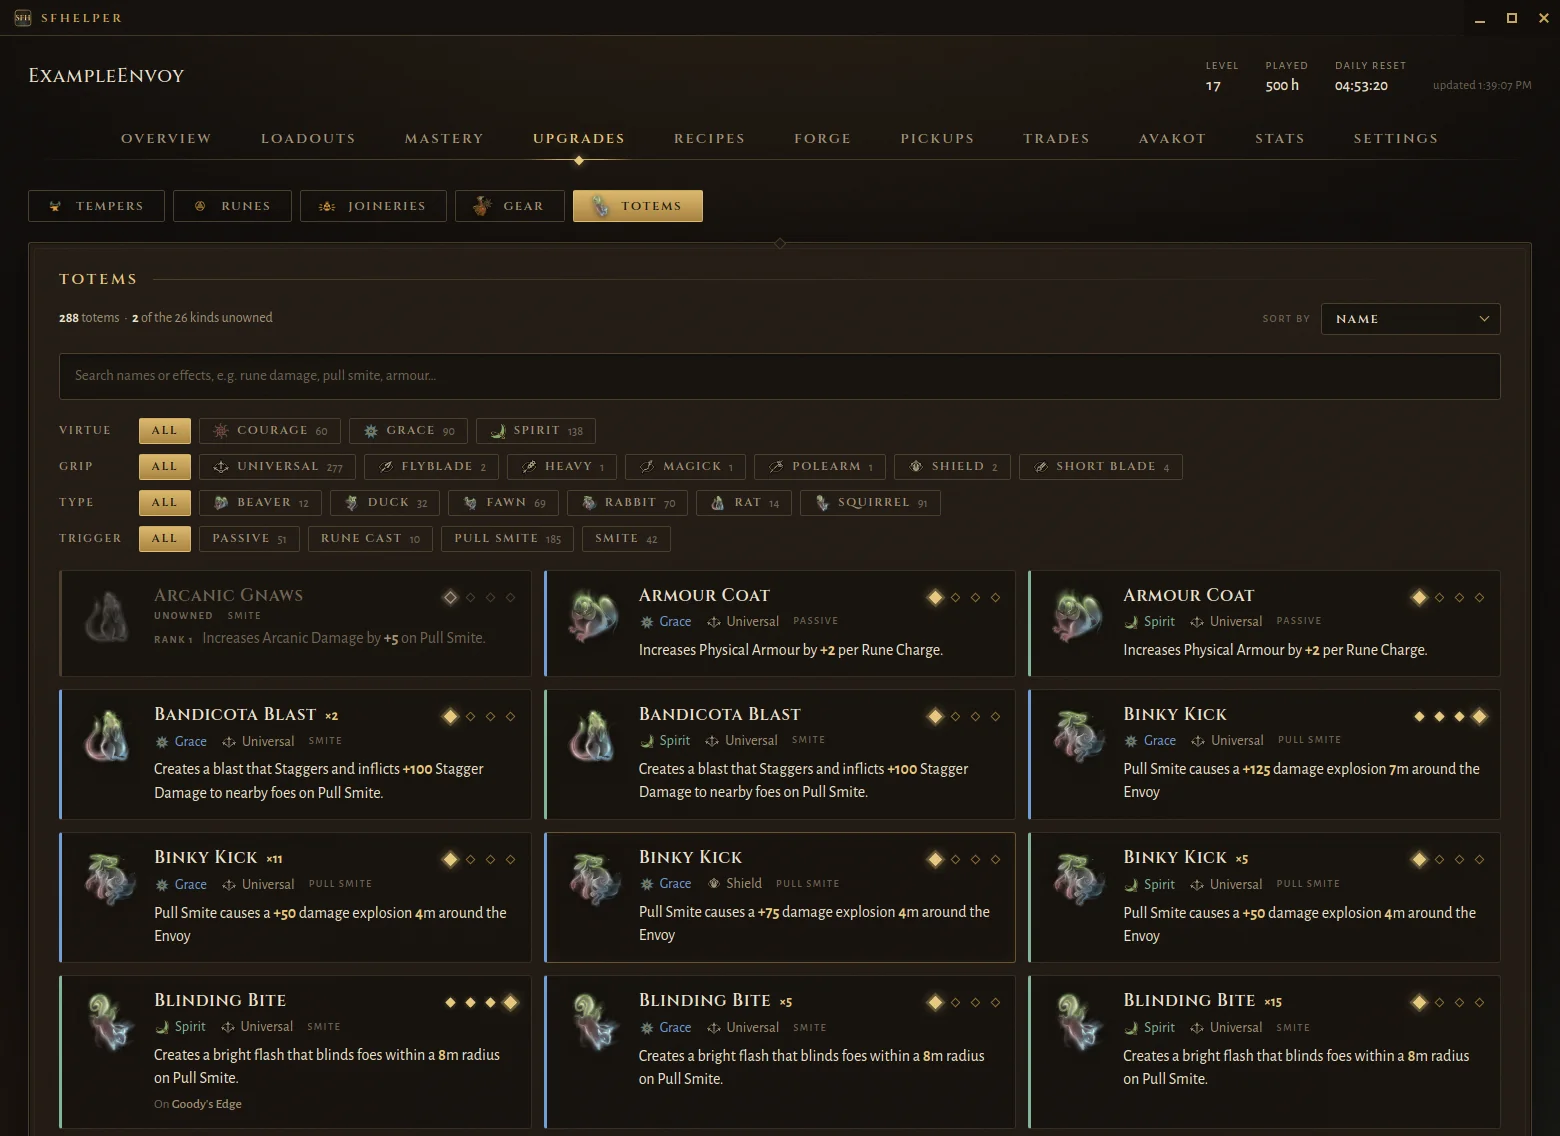
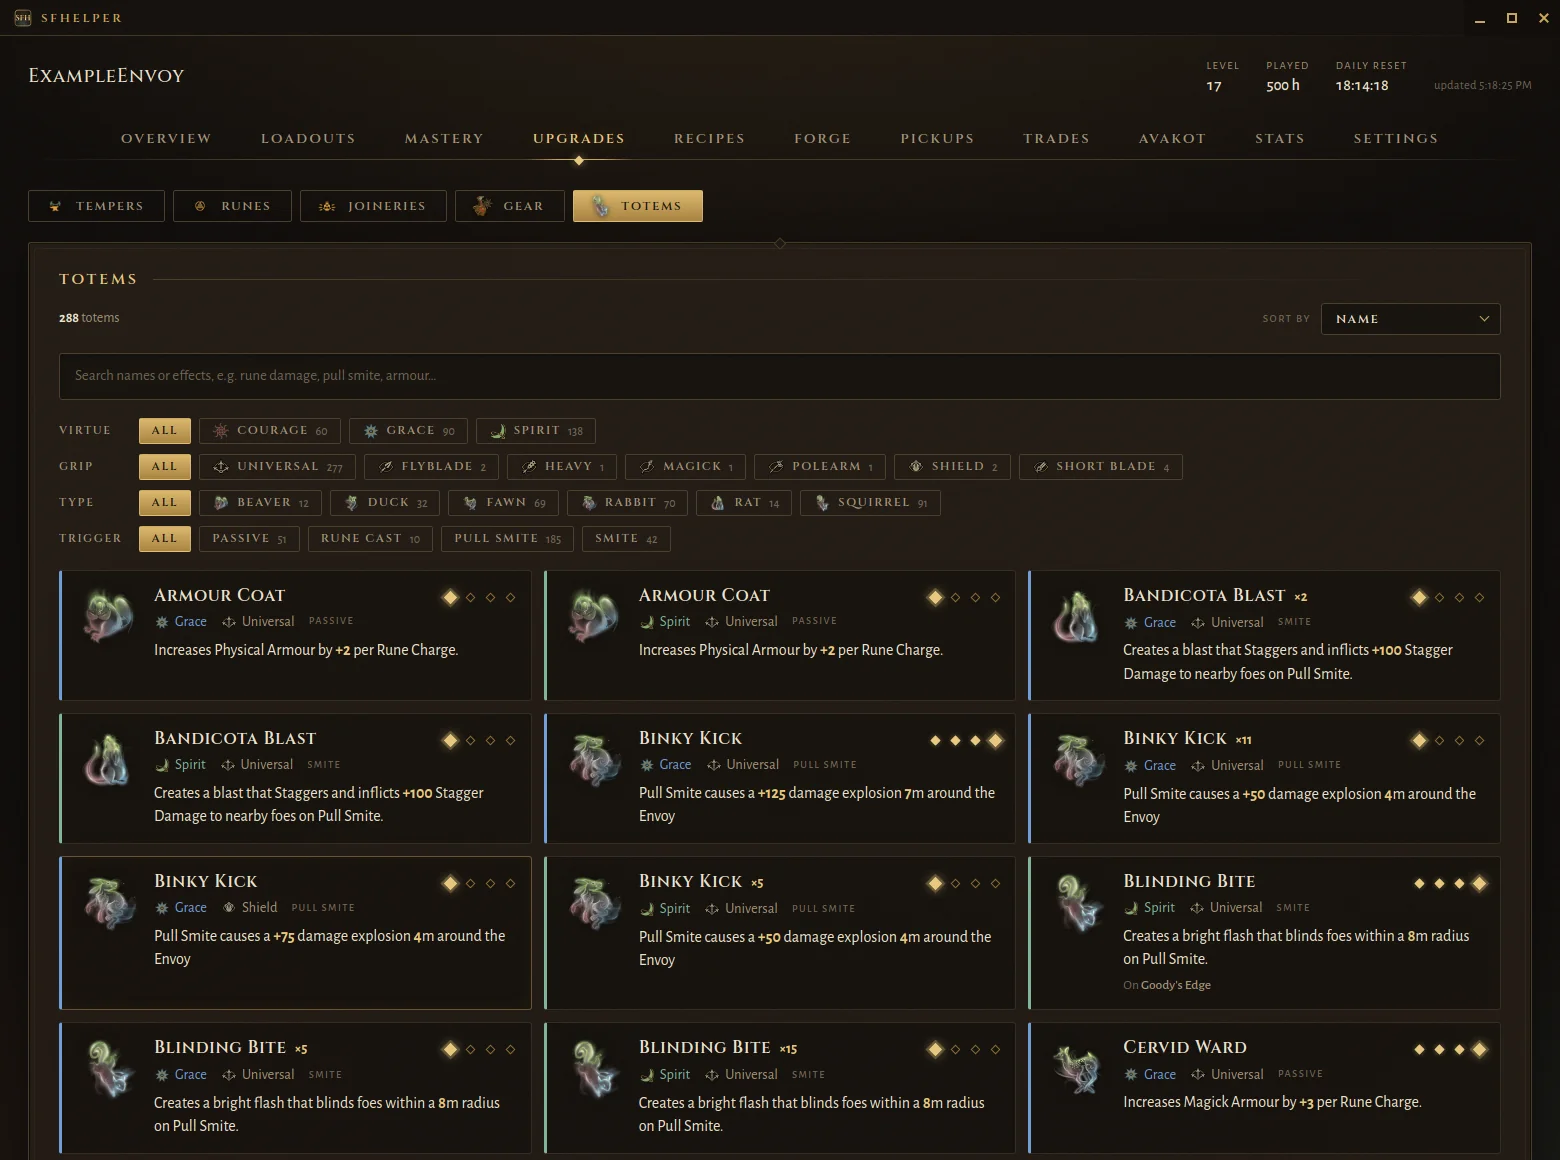
Showed only owned Totems in the Totems tab, Removed the unowned kinds count

diff --git a/src/server/public/index.html b/src/server/public/index.html
@@ -602,8 +602,6 @@
       .tcard .tpips .tpip:hover i { border-color: var(--accent-hi); }
       .tcard .tpips .tpip.cur i { transform: rotate(45deg) scale(1.3); border-color: var(--accent-hi); box-shadow: 0 0 0 2px color-mix(in srgb, var(--accent-hi) 28%, transparent), 0 0 9px color-mix(in srgb, var(--accent-hi) 75%, transparent); }
       .tcard .tpips .tpip.cur:not(.on) i { background: color-mix(in srgb, var(--accent-hi) 30%, transparent); }
-      .tcard.miss .tpips .tpip i { border-color: var(--line-2); }
-      .tcard.miss .tpips .tpip.cur i { border-color: var(--muted); background: color-mix(in srgb, var(--muted) 35%, transparent); box-shadow: 0 0 0 2px color-mix(in srgb, var(--muted) 22%, transparent), 0 0 8px color-mix(in srgb, var(--muted) 55%, transparent); }
       .tcard .tfx .trankat { color: var(--faint); font: 600 10.5px/1 var(--body); letter-spacing: 0.14em; text-transform: uppercase; margin-right: 8px; }
       .rtag { display: inline-block; margin-left: 8px; padding: 1px 6px; border: 1px solid rgba(201, 120, 92, 0.55); color: #e0a189; font: 500 10.5px/1.4 var(--body); letter-spacing: 0.12em; text-transform: uppercase; vertical-align: 2px; }
       .temperpop .tp-on { margin-top: 8px; padding-top: 8px; border-top: 1px solid var(--line); font-size: 13.5px; line-height: 1.5; color: var(--muted); }
@@ -718,10 +716,6 @@
       .tcard .tfx b { color: var(--accent-hi); }
       .tcard .ton { grid-column: 2; font-size: 12.5px; color: var(--faint); }
       .tcard .ton b { color: var(--muted); font-weight: 500; }
-      .tcard.miss .ticon { opacity: 0.35; filter: grayscale(1); }
-      .tcard.miss .tname, .tcard.miss .tfx { color: var(--faint); }
-      .tcard.miss .tfx b { color: var(--muted); }
-      .tcard .tmeta .tunowned { color: var(--faint); font: 600 10.5px/1 var(--body); letter-spacing: 0.14em; text-transform: uppercase; }
       @media (max-width: 640px) {
         .tfilters { grid-template-columns: 1fr; gap: 6px; }
         .tfilters .fl { margin-top: 6px; }
@@ -3541,20 +3535,9 @@
             animal: d ? d.animal : null,
             trigger: d ? TRIGGER_LABEL[d.enhances] || d.enhances : null,
             description: d ? d.description : "",
-            owned: true,
           });
         }
-        const views = [...groups.values()];
-        const ownedNames = new Set(views.map((v) => v.name));
-        for (const [name, d] of Object.entries(TOTEM_DATA)) {
-          if (ownedNames.has(name)) continue;
-          views.push({
-            id: null, type: (d.types || [])[0] || null, name, rank: 1, virtue: null, grip: null, equippedOn: [],
-            count: 0, on: new Set(), aligned: false, effect: totemEffectHtml(d, 1, false),
-            animal: d.animal || null, trigger: TRIGGER_LABEL[d.enhances] || d.enhances || null, description: d.description || "", owned: false,
-          });
-        }
-        return views;
+        return [...groups.values()];
       }
       function totemMatches(v, words) {
         if (!words.length) return true;
@@ -3579,9 +3562,9 @@
           row("Trigger", "trigger", TRIGGERS, null);
       }
       const TOTEM_VIEW_RANK = new Map();
-      const totemViewKey = (v) => [v.name, v.virtue, v.grip, v.rank, v.owned].join("|");
+      const totemViewKey = (v) => [v.name, v.virtue, v.grip, v.rank].join("|");
       function totemEffectAt(v, rank) {
-        if (rank === v.rank && v.owned) return v.effect;
+        if (rank === v.rank) return v.effect;
         const d = TOTEM_DATA[v.name];
         return d ? totemEffectHtml(d, rank, v.aligned) : effectAtRank(TOTEMS[v.name], rank).replace(/ \(Rank \d\)$/, "");
       }
@@ -3591,20 +3574,20 @@
         const shownRank = TOTEM_VIEW_RANK.get(key) || v.rank;
         const pips = [1, 2, 3, 4]
           .map((r) => {
-            const cls = ["tpip", v.owned && r <= v.rank ? "on" : "", r === shownRank ? "cur" : ""].filter(Boolean).join(" ");
+            const cls = ["tpip", r <= v.rank ? "on" : "", r === shownRank ? "cur" : ""].filter(Boolean).join(" ");
             const tip = r === shownRank ? `Showing rank ${r}` : `Show rank ${r}`;
-            return `<button class="${cls}" data-key="${escHtml(key)}" data-rank="${r}" title="${tip}${v.owned && r === v.rank ? " (yours)" : ""}" aria-label="${tip}" aria-pressed="${r === shownRank}"><i class="${v.owned && r <= v.rank ? "on" : ""}"></i></button>`;
+            return `<button class="${cls}" data-key="${escHtml(key)}" data-rank="${r}" title="${tip}${r === v.rank ? " (yours)" : ""}" aria-label="${tip}" aria-pressed="${r === shownRank}"><i class="${r <= v.rank ? "on" : ""}"></i></button>`;
           })
           .join("");
         const effect = totemEffectAt(v, shownRank);
-        const rankNote = shownRank !== v.rank || !v.owned ? `<span class="trankat">Rank ${shownRank}</span>` : "";
+        const rankNote = shownRank !== v.rank ? `<span class="trankat">Rank ${shownRank}</span>` : "";
         const on = [...v.on].map(shortName);
-        return `<div class="tcard${v.aligned ? " aligned" : ""}${v.owned ? "" : " miss"}" style="--vc:${vc}">
+        return `<div class="tcard${v.aligned ? " aligned" : ""}" style="--vc:${vc}">
           ${v.animal ? `<img class="ticon" src="${animalIcon(v.animal)}" alt="${v.animal}" title="${v.animal} Totem">` : '<span class="ticon"></span>'}
           <div class="thead"><span class="tname" title="${v.description || ""}">${v.name}</span>${v.count > 1 ? `<span class="tcount">×${v.count}</span>` : ""}<span class="tpips">${pips}</span></div>
           <div class="tmeta">
             ${v.virtue ? `<span style="color:${vc}"><img src="${virtueIcon(v.virtue)}" alt="">${v.virtue}</span>` : ""}
-            ${v.owned ? `<span title="${v.aligned ? `Only fits ${v.grip} weapons, with a stronger effect` : "Fits any weapon"}"><img src="${gripIcon(v.grip)}" alt="" onerror="this.remove()">${v.grip}</span>` : '<span class="tunowned">Unowned</span>'}
+            <span title="${v.aligned ? `Only fits ${v.grip} weapons, with a stronger effect` : "Fits any weapon"}"><img src="${gripIcon(v.grip)}" alt="" onerror="this.remove()">${v.grip}</span>
             ${v.trigger ? `<span class="trig">${v.trigger}</span>` : ""}
           </div>
           <div class="tfx">${effect ? rankNote + effect : '<span class="muted">Effect unknown</span>'}</div>
@@ -3626,12 +3609,8 @@
           totemMatches(v, words));
         const total = all.reduce((n, v) => n + v.count, 0);
         const nShown = shown.reduce((n, v) => n + v.count, 0);
-        const missing = all.filter((v) => !v.owned).length;
-        const missingShown = shown.filter((v) => !v.owned).length;
-        const ownedText = !total || (!nShown && missingShown) ? "" : nShown === total ? `<b>${total}</b> totems` : `Showing <b>${nShown}</b> of <b>${total}</b> totems`;
-        const missingText = missingShown ? `<b>${missingShown}</b> of the ${Object.keys(TOTEM_DATA).length} kinds unowned` : "";
-        $("totemSummary").innerHTML = [ownedText, missingText].filter(Boolean).join(" &nbsp;·&nbsp; ");
-        if (!total && !missing) { $("totems").innerHTML = '<span class="muted">No totems in your inventory yet.</span>'; return; }
+        $("totemSummary").innerHTML = !total ? "" : nShown === total ? `<b>${total}</b> totems` : `Showing <b>${nShown}</b> of <b>${total}</b> totems`;
+        if (!total) { $("totems").innerHTML = '<span class="muted">No totems in your inventory yet.</span>'; return; }
         if (!shown.length) { $("totems").innerHTML = '<span class="muted">No totems match.</span>'; return; }
 
         const byName = (a, b) => a.name.localeCompare(b.name) || b.rank - a.rank || String(a.virtue).localeCompare(String(b.virtue));
@@ -3645,18 +3624,18 @@
         const ICON = { virtue: virtueIcon, grip: gripIcon, animal: animalIcon };
         const groups = new Map();
         for (const v of shown) {
-          const k = v[sort] || (v.owned ? "Unknown" : "Unowned");
+          const k = v[sort] || "Unknown";
           if (!groups.has(k)) groups.set(k, []);
           groups.get(k).push(v);
         }
         const order = ORDER[sort];
-        const keys = [...groups.keys()].sort((a, b) => (a === "Unowned") - (b === "Unowned") || (order.indexOf(a) + 1 || 99) - (order.indexOf(b) + 1 || 99) || a.localeCompare(b));
+        const keys = [...groups.keys()].sort((a, b) => (order.indexOf(a) + 1 || 99) - (order.indexOf(b) + 1 || 99) || a.localeCompare(b));
         $("totems").innerHTML = keys
           .map((k) => {
             const list = groups.get(k).sort(byName);
             const n = list.reduce((m, v) => m + v.count, 0);
-            const icon = ICON[sort] && k !== "Unknown" && k !== "Unowned" ? `<img src="${ICON[sort](k)}" alt="">` : "";
-            const label = sort === "animal" && k !== "Unknown" && k !== "Unowned" ? `${k} Totems` : k;
+            const icon = ICON[sort] && k !== "Unknown" ? `<img src="${ICON[sort](k)}" alt="">` : "";
+            const label = sort === "animal" && k !== "Unknown" ? `${k} Totems` : k;
             return `<div class="tgroup"><h3>${icon}${label}<span class="n">${n}</span></h3><div class="tgrid">${list.map(totemCardHtml).join("")}</div></div>`;
           })
           .join("");

diff --git a/README.md b/README.md
@@ -17,7 +17,7 @@ Runs on **Linux** (AppImage) and **Windows** (installer).
 | **Overview** | Faction standing and titles with each faction's in-game emblem, the daily standing cap counting down, standing earned today per faction, Enclave Favours and your currencies with their in-game icons (Dracs, Arcs, Harmonies) and a summary of your trades. Cooldowns: the game's own timers counting down, such as an Agari (sub-boss) respawning 30 minutes after you slay it, a siege's cooldown, the 3 hours before an Organ can be destroyed again, the 24 hours between Blessed Meetings, and your Wolfpup's rest after it runs out of Energy. Star a cooldown to get a desktop notification when it ends. When the Collector docks in your game, Cooldowns shows the region and when it leaves; star Collector Event to be notified. |
 | **Loadouts** | Each loadout's Pact (with its Pact Arts tree), weapons, Runes, Totems by slot, Tempers and Joinery (e.g. *Gildaur: Thrice Blessed by Mora*), plus its armour (Helm, Cuirass, Leggings, with defence and Virtue requirements) and Talisman. Virtue totals match the Arsenal, with a breakdown: allocated points, Pact Arts, Talisman and Fables. Pact Arts show the game's own numbers (e.g. Forestall's chance to survive). Loadouts can be shared as short `SFH1:` codes; paste one and press Enter or Import. |
 | **Mastery** | Your Envoy Rank, your Mastery and progress to the next rank, and the patch's maximum rank. Every weapon and Pact shows its in-game icon and its rank out of 30, from the game's own Mastery record, so a re-crafted weapon still counts. Filter by owned, mastered and type (Primary, Sidearm or Pacts). Discoveries lists every place by its in-game name and region, whether you've found it and the Memories found there, with a search and a filter by region or dungeon. |
-| **Upgrades** | Split into Tempers, Runes, Joineries, Gear and Totems tabs. Tuvalkane temper learning, with each Temper's exact numbers from the game files (per weapon type where they differ) and a sort by Origin; your Runes by weapon art with their rank (1 to 4), the Totem slot they add and their numbers at that rank; your Joineries by metal and blessing, filterable by Virtue and blessing, with how many Attunement Pips each adds on hover; your Gear, with what's equipped and the numbers the game gives (e.g. a Virtue Elixir's +10 for an hour), filterable by type (Virtue Elixirs among them) and lures by Habitat and Nature (e.g. Lake, Bottom Feeder); and your Totems with Virtue / grip / type / trigger filters, the kinds you don't own yet dimmed. Click a Totem's rank diamonds to see its numbers at any rank. Each subtab has the game's own icon, a search and a Sort by menu (e.g. Runes by weapon, Totem slot, name, rank or copies; Joineries by metal, Virtue, blessing, name or count). |
+| **Upgrades** | Split into Tempers, Runes, Joineries, Gear and Totems tabs. Tuvalkane temper learning, with each Temper's exact numbers from the game files (per weapon type where they differ) and a sort by Origin; your Runes by weapon art with their rank (1 to 4), the Totem slot they add and their numbers at that rank; your Joineries by metal and blessing, filterable by Virtue and blessing, with how many Attunement Pips each adds on hover; your Gear, with what's equipped and the numbers the game gives (e.g. a Virtue Elixir's +10 for an hour), filterable by type (Virtue Elixirs among them) and lures by Habitat and Nature (e.g. Lake, Bottom Feeder); and your Totems with Virtue / grip / type / trigger filters. Click a Totem's rank diamonds to see its numbers at any rank. Each subtab has the game's own icon, a search and a Sort by menu (e.g. Runes by weapon, Totem slot, name, rank or copies; Joineries by metal, Virtue, blessing, name or count). |
 | **Recipes** | Everything you can brew with the Witch Verminia (Elixirs, Pup Treats and Palettes), the Chordstones Tuvalkane casts, and the weapons and armour you can craft: each recipe's ingredients against what you have, what you're short of, the Dracs and time it takes, and the Bond rank it needs. Search by recipe or ingredient, and filter by type, slot, Virtue, or by what's ready to make. Star a recipe to get a desktop notification once you have everything for it. |
 | **Forge** | What you're crafting with Tuvalkane or Verminia, using the game's own words: each craft's curing time and how long is left (Ready To Claim, In Progress). Get a desktop notification when a craft is ready to claim. Temper Plans: every weapon you own, from Stock to Legendary, with its craftwork, rank and Tempers, plus the weapons you don't own yet (greyed out). Plan the 8 Temper slots a Legendary weapon holds (only Tempers that fit the weapon are offered) and see which planned Tempers are already struck, which still need striking, and which Tempers on the weapon aren't in the plan. Choose from every Temper or only the ones Tuvalkane has learned; planned Tempers you haven't learned yet are marked. Search by weapon or Temper, sort by craftwork, Tempers struck, rank, weapon type or name, and filter to owned, unowned or planned weapons. |
 | **Pickups** | Weapons you've picked up, with their in-game pictures and times taken from the game's log. Optional desktop notifications for Moonsteel finds. Pickup and trade history is kept on your computer; export it to move it to a new install. |
@@ -33,7 +33,7 @@ Runs on **Linux** (AppImage) and **Windows** (installer).
 | ![Loadouts: a loadout opened to its Virtues, armour and Pact Arts](screenshots/loadouts.webp) | ![Loadouts: the same loadout's Pact Arts tree and weapons, with Joinery, Runes, Totems by slot and Tempers](screenshots/loadouts-2.webp) |
 | ![Mastery: Envoy Rank and every weapon's and Pact's rank, with in-game icons](screenshots/mastery.webp) | ![Upgrades, Tempers: what Tuvalkane has learned, with each Temper's numbers from the game files](screenshots/upgrades-tempers.webp) |
 | ![Upgrades, Runes: your Runes by weapon art, with rank and Totem slot](screenshots/upgrades-runes.webp) | ![Upgrades, Joineries: your Joineries by metal and blessing](screenshots/upgrades-joineries.webp) |
-| ![Upgrades, Gear: supplies, fishing gear and companion items, with what's equipped and the game's numbers](screenshots/upgrades-gear.webp) | ![Upgrades, Totems: every kind of Totem with search, filters and rank diamonds](screenshots/upgrades-totems.webp) |
+| ![Upgrades, Gear: supplies, fishing gear and companion items, with what's equipped and the game's numbers](screenshots/upgrades-gear.webp) | ![Upgrades, Totems: your Totems with search, filters and rank diamonds](screenshots/upgrades-totems.webp) |
 | ![Recipes: brews, Chordstones, weapons and armour, with what you have and what you're short of](screenshots/recipes.webp) | ![Forge: crafts in progress and Temper Plans, with each planned Temper struck or still to strike](screenshots/forge.webp) |
 | ![Pickups: weapons picked up, with their pictures, craftwork and tempers](screenshots/pickups.webp) | ![Trades: what you received and gave in each trade, and the Scutage paid](screenshots/trades.webp) |
 | ![Avakot: what Avakot's Gots has in stock, with stars for notifications](screenshots/avakot.webp) | ![Stats: combat totals, your weapons, Pacts and enemies, and your Wolfpup](screenshots/stats.webp) |
